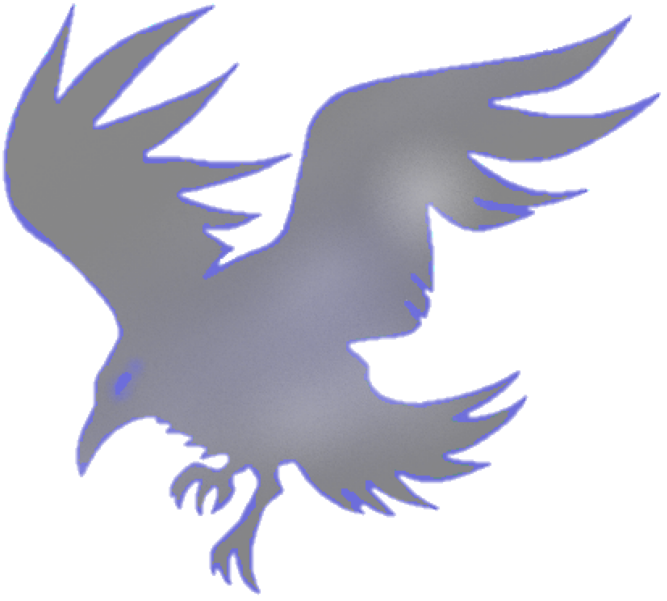
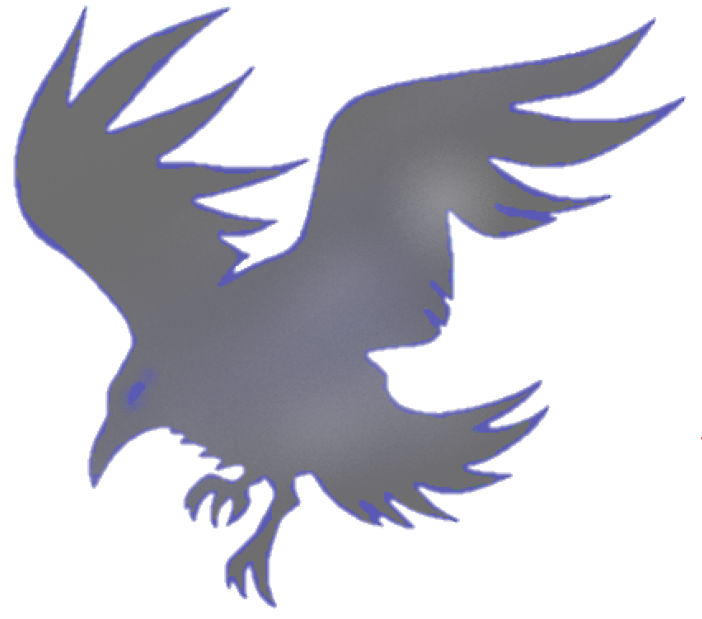
Corrigir cores

diff --git a/Css/Style.css b/Css/Style.css
@@ -34,7 +34,7 @@ Section {
   border: 0.1px solid rgb(255, 255, 255, 0.1);
 }
 
-a:hover {
+a:hover, button {
   cursor: url("../Images/CursorPointer.png"), pointer;
 }
 
@@ -59,7 +59,6 @@ button {
   width: 70px;
   border: 0px solid;
   background-color: transparent;
-  cursor: url("../Images/CursorPointer.png"), pointer;
 }
 
 .ListaVertical a:hover,
@@ -219,14 +218,19 @@ button:hover {
 }
 
 .Light-theme {
-  background: linear-gradient(0.25turn, rgb(150, 150, 150), rgb(200, 200, 200));
+  background: linear-gradient(0.25turn, rgb(170, 170, 170), rgb(220, 220, 220));
   color: black;
+  cursor: url("../Images/CursorClaro.png"), auto;
+}
+
+.Light-theme a:hover, .Light-theme button {
+  cursor: url("../Images/CursorClaroPointer.png"), pointer;
 }
 
 .Light-theme .ListaVertical a,
 .Light-theme button,
 .Light-theme .Principal {
-  color: rgb(102, 102, 227);
+  color: rgb(51, 51, 183);
 }
 
 .Light-theme #EfeitoEscrevendo {
@@ -234,34 +238,34 @@ button:hover {
 }
 
 .Light-theme section {
-  border: 0.1px solid rgb(102, 102, 227);
+  border: 0.1px solid rgb(51, 51, 183);
 }
 
 .Light-theme #Texto a,
 .Light-theme #Seta {
   color: black;
-  background-color: rgb(102, 102, 227);
+  background-color: rgb(51, 51, 183);
 }
 
 .Light-theme .Portifolio,
 .Light-theme .SobreMim {
-  background-color: rgb(255, 255, 255, 0.5);
+  background-color: rgb(255, 255, 255, 0.59);
   color: black;
 }
 
 .Light-theme .Habilidades {
-  background: linear-gradient(0.25turn, rgb(150, 150, 150), rgb(200, 200, 200));
+  background: linear-gradient(0.25turn, rgb(170, 170, 170), rgb(220, 220, 220));
   color: black;
 }
 
 .Light-theme header {
-  background-color: rgb(102, 102, 227, 0.2);
+  background-color: rgba(61, 61, 190, 0.2);
   border: solid 1.5px rgb(125, 125, 214);
 }
 
 .Light-theme .ListaVertical a:hover,
 .Light-theme button:hover {
-  border-bottom: 2px solid rgb(109, 109, 219);
+  border-bottom: 2px solid rgb(51, 51, 183);
   background-color: rgb(255, 255, 255, 0.3);
 }
 
@@ -275,7 +279,7 @@ button:hover {
 
 .Light-theme .ListaVertical.open {
   border: solid 2px rgb(109, 109, 219);
-  filter: drop-shadow(5px 5px 10px rgb(109, 109, 219));
+  filter: drop-shadow(5px 5px 10px rgb(51, 51, 183));
 }
 
 .ContainerPortifolio {

diff --git a/JavaScript/JavaScript.js b/JavaScript/JavaScript.js
@@ -42,6 +42,6 @@ function MudarTema() {
     } else {
        button.innerHTML = "Tema Claro"
        Corvo.src = "./Images/IconeLight.png"
-       Corvo.style="filter: drop-shadow(10px 10px 15px rgb(109, 109, 219)"
+       Corvo.style="filter: drop-shadow(10px 10px 15px black"
     }
  }
